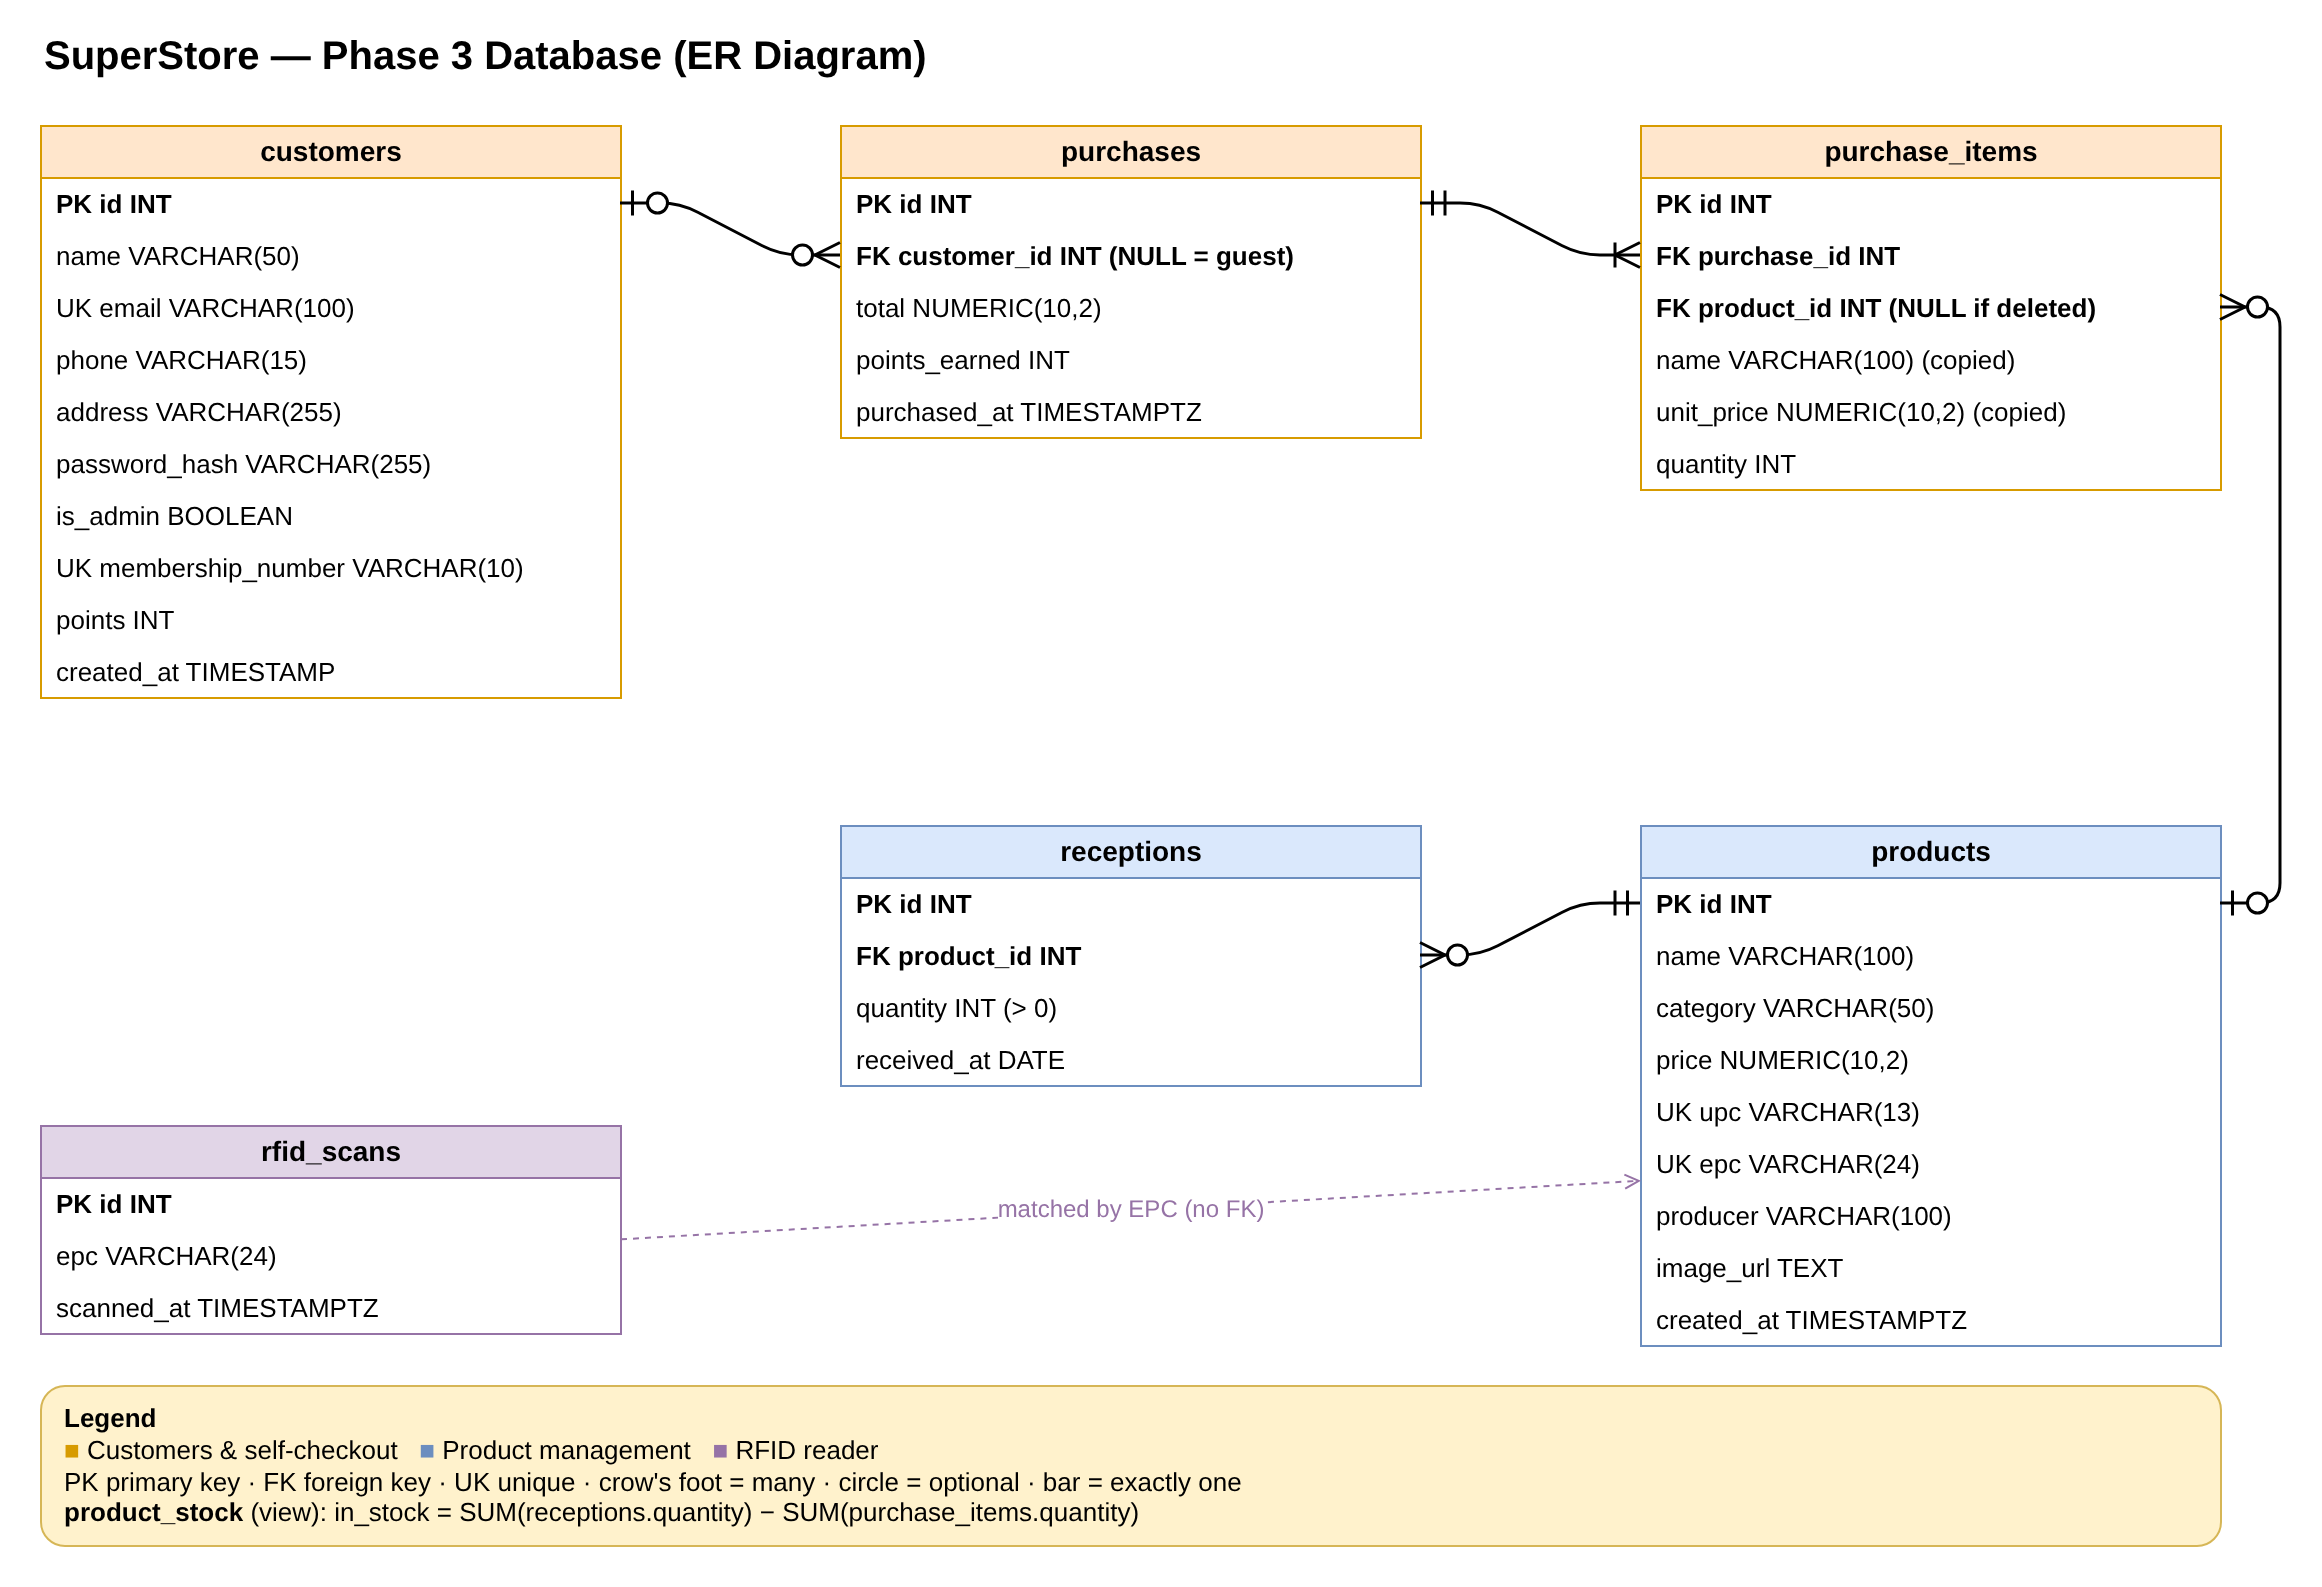
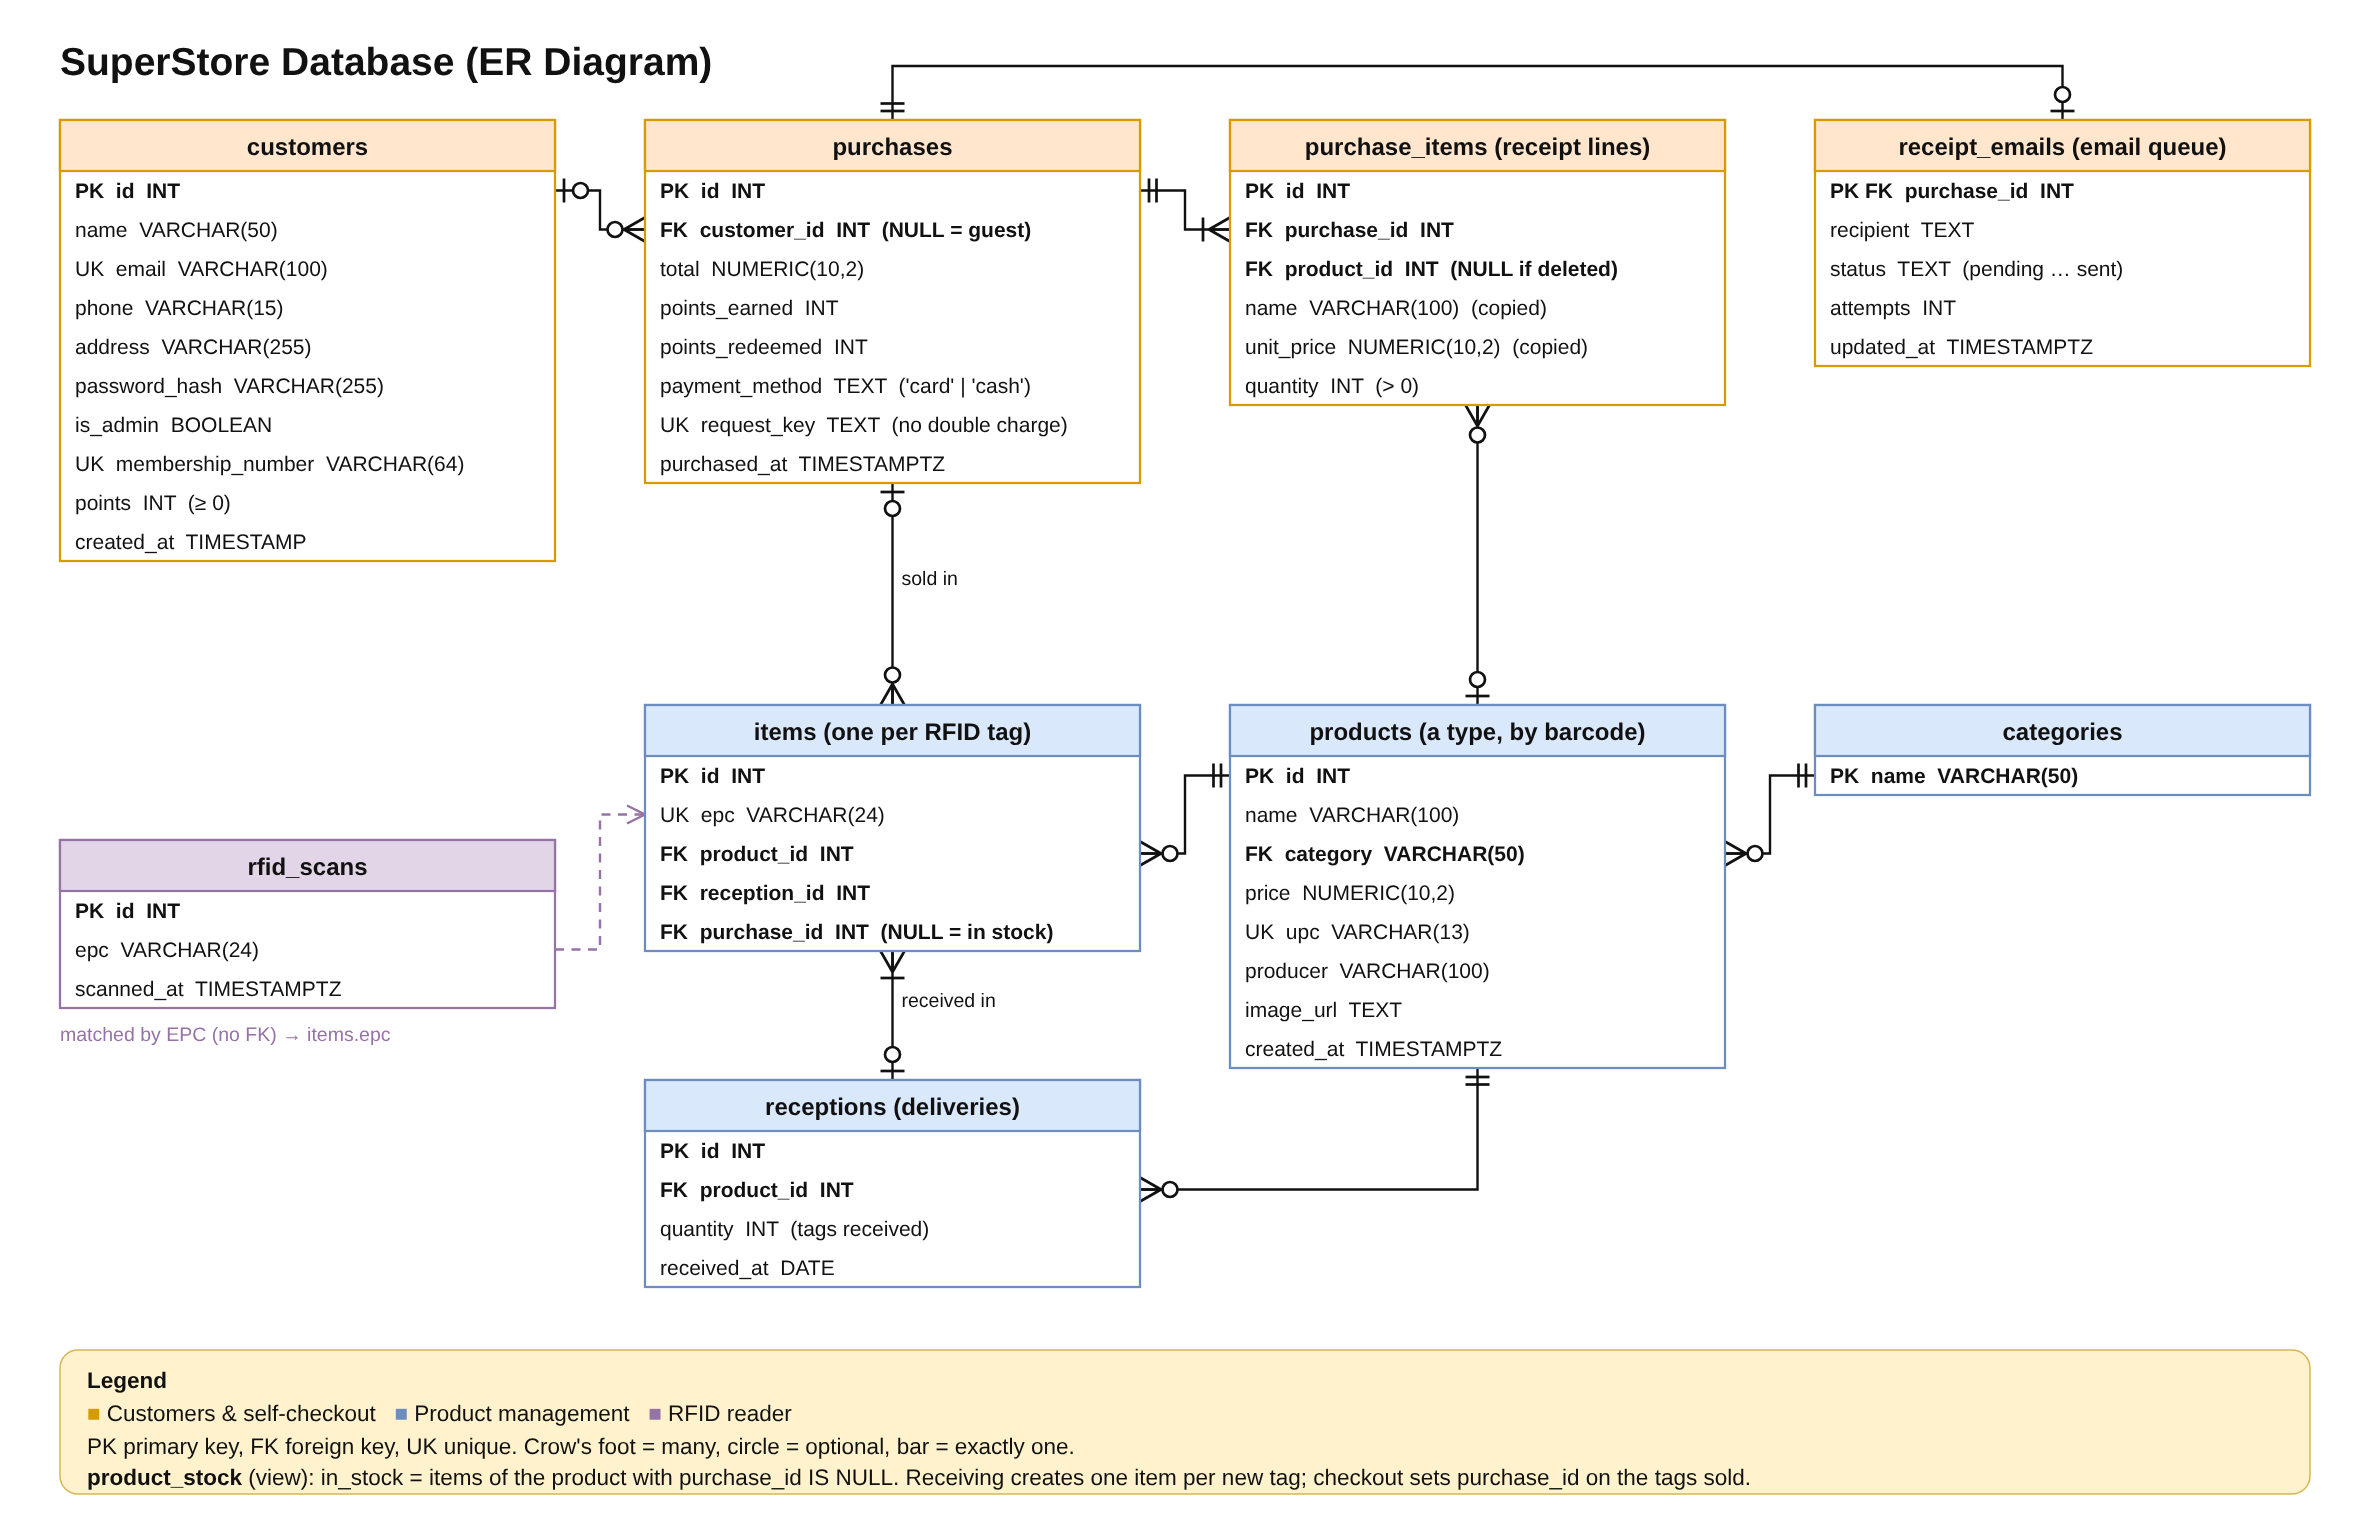
Removed old phase 1 code that we no longer needed

diff --git a/app/views/account.php b/app/views/account.php
@@ -75,7 +75,7 @@ require __DIR__ . '/products/_start.php';
                         <th><span data-i18n>Date</span></th>
                         <th><span data-i18n>Total</span></th>
                         <th><span data-i18n>Points earned</span></th>
-                        <th data-i18n>Status</th>
+                        <?php if (ORDER_TRACKING): ?><th data-i18n>Status</th><?php endif; ?>
                         <th data-i18n>Actions</th>
                     </tr>
                 </thead>
@@ -85,11 +85,13 @@ require __DIR__ . '/products/_start.php';
                             <td><?= $e((new DateTimeImmutable($purchase['purchased_at']))->setTimezone(new DateTimeZone(date_default_timezone_get()))->format('M j, Y H:i')) ?></td>
                             <td><?= $money($purchase['total']) ?></td>
                             <td><?= $e($purchase['points_earned']) ?></td>
-                            <td><span class="order-status" data-order-status="SS-<?= $e(str_pad((string) $purchase['id'], 6, '0', STR_PAD_LEFT)) ?>" data-i18n>In progress</span></td>
+                            <?php if (ORDER_TRACKING): ?><td><span class="order-status" data-order-status="SS-<?= $e(str_pad((string) $purchase['id'], 6, '0', STR_PAD_LEFT)) ?>" data-i18n>In progress</span></td><?php endif; ?>
                             <td>
                                 <div class="heading-actions">
                                     <a class="button order-link receipt-link" href="/receipt?id=<?= (int) $purchase['id'] ?>" data-i18n>View receipt</a>
-                                    <a class="button order-link tracking-link" href="/receipt?id=<?= (int) $purchase['id'] ?>#tracking" data-i18n>Track order</a>
+                                    <?php if (ORDER_TRACKING): ?>
+                                        <a class="button order-link tracking-link" href="/receipt?id=<?= (int) $purchase['id'] ?>#tracking" data-i18n>Track order</a>
+                                    <?php endif; ?>
                                 </div>
                             </td>
                         </tr>

diff --git a/app/controllers/AuthController.php b/app/controllers/AuthController.php
@@ -8,7 +8,6 @@ use App\Models\CustomerModel;
 
 class AuthController
 {
-    private const GPIO_SCRIPT = __DIR__ . '/../../scripts/gpio_signal.py';
     public function register(): void
     {
         header('Content-Type: application/json');
@@ -38,14 +37,12 @@ class AuthController
         }
 
         if ($errors !== []) {
-            $this->triggerGPIO('fail');
             $this->respondWithErrors('Please fix the highlighted fields and try again.', $errors);
             return;
         }
 
         // 2. The email must not already be registered.
         if (CustomerModel::findByEmail($email) !== null) {
-            $this->triggerGPIO('fail');
             http_response_code(409);
             echo json_encode([
                 'status' => 'error',
@@ -60,7 +57,6 @@ class AuthController
         $customer->setPassword($password);
 
         if (!$customer->save()) {
-            $this->triggerGPIO('fail');
             http_response_code(500);
             echo json_encode([
                 'status' => 'error',
@@ -68,9 +64,6 @@ class AuthController
             ]);
             return;
         }
-
-        // Account created: light the blue LED.
-        $this->triggerGPIO('success');
 
         session_regenerate_id(true);
         $_SESSION['customer_id'] = $customer->getId();
@@ -162,15 +155,5 @@ class AuthController
             'message' => $message,
             'errors' => $errors,
         ]);
-    }
-
-    private function triggerGPIO(string $result): void
-    {
-        if (PHP_OS_FAMILY === 'Windows') {
-            return;
-        }
-        $script = escapeshellarg(self::GPIO_SCRIPT);
-        $resultArg = escapeshellarg($result);
-        shell_exec("python3 {$script} {$resultArg} > /dev/null 2>&1 &");
     }
 }

diff --git a/README.md b/README.md
@@ -12,7 +12,7 @@ SuperStore is built in three phases, each adding to the last.
 
 | Phase | Scope | Status |
 |---|---|---|
-| **1. Customer registration** | Sign-up and login with LED feedback | Done |
+| **1. Customer registration** | Sign-up and login | Done |
 | **2. IoT dashboard** | Fridge sensors over MQTT, thresholds, email alerts, fan control | Done |
 | **3. Store operations** | Product management, inventory, barcode/RFID scanning, self-checkout, loyalty points | In progress |
 
@@ -25,7 +25,6 @@ The application has two sides:
 
 **Phase 1: Registration**
 - Sign-up and login with server-side validation and hashed passwords
-- Blue LED on success, red LED on failure
 
 **Phase 2: Fridge monitoring**
 - Two ESP32 + DHT11 sensors publish temperature and humidity over MQTT (`Frig1`, `Frig2`)
@@ -97,7 +96,7 @@ Copy `.env.example` to `.env` and fill in:
 
 ### 2. Database
 
-For a fresh database, run `config/db.sql` in the Supabase SQL Editor. Then apply `config/checkout.sql` and `config/receipt_emails.sql`, in that order. Both are safe to run again on an existing database. Give your account admin access:
+For a fresh database, run `config/db.sql` in the Supabase SQL Editor. Then apply `config/checkout.sql`, `config/receipt_emails.sql` and `config/reports.sql`, in that order. All three are safe to run again on an existing database. Give your account admin access:
 
 ```sql
 UPDATE customers SET is_admin = TRUE WHERE email = 'you@example.com';
@@ -159,7 +158,6 @@ Design, relationships and examples: [`docs/ER.md`](docs/ER.md). Editable diagram
 
 | Component | Phase | Connection |
 |---|---|---|
-| Blue / red LEDs | 1 | GPIO 23 / GPIO 18 |
 | 2 × ESP32 + DHT11 | 2 | Wi-Fi (MQTT) |
 | DC motor + driver | 2 | GPIO 22 (enable), 27 (in 1), 17 (in 2) |
 | USB barcode scanner | 3 | USB (keyboard mode) |

diff --git a/docs/ER.md b/docs/ER.md
@@ -2,7 +2,7 @@
 
 ![Phase 3 ER diagram](SuperStore-ERD.png)
 
-Editable source: [`SuperStore-ERD.drawio`](SuperStore-ERD.drawio) (open it at app.diagrams.net). Full SQL: the Phase 3 section of [`config/db.sql`](../config/db.sql).
+Editable source: [`SuperStore-ERD.drawio`](SuperStore-ERD.drawio) (open it at app.diagrams.net). Full SQL: the tables are in [`config/db.sql`](../config/db.sql); receiving stock, checkout and the upgrade of older databases are in [`config/checkout.sql`](../config/checkout.sql); the email queue is in [`config/receipt_emails.sql`](../config/receipt_emails.sql) and the sales report in [`config/reports.sql`](../config/reports.sql).
 
 ## Tables
 
@@ -16,6 +16,7 @@ Editable source: [`SuperStore-ERD.drawio`](SuperStore-ERD.drawio) (open it at ap
 | `purchases` | One checkout, which is one receipt | Self-checkout |
 | `purchase_items` | One line on a receipt (product, quantity, price) | Self-checkout |
 | `rfid_scans` | One tag read by the RFID reader | Management, self-checkout |
+| `receipt_emails` | One receipt email to send (one per member purchase), with its status and attempts | Receipt worker |
 | `product_stock` *(view)* | A product with its `in_stock` = its items not sold yet | Management |
 
 ## Relationships
